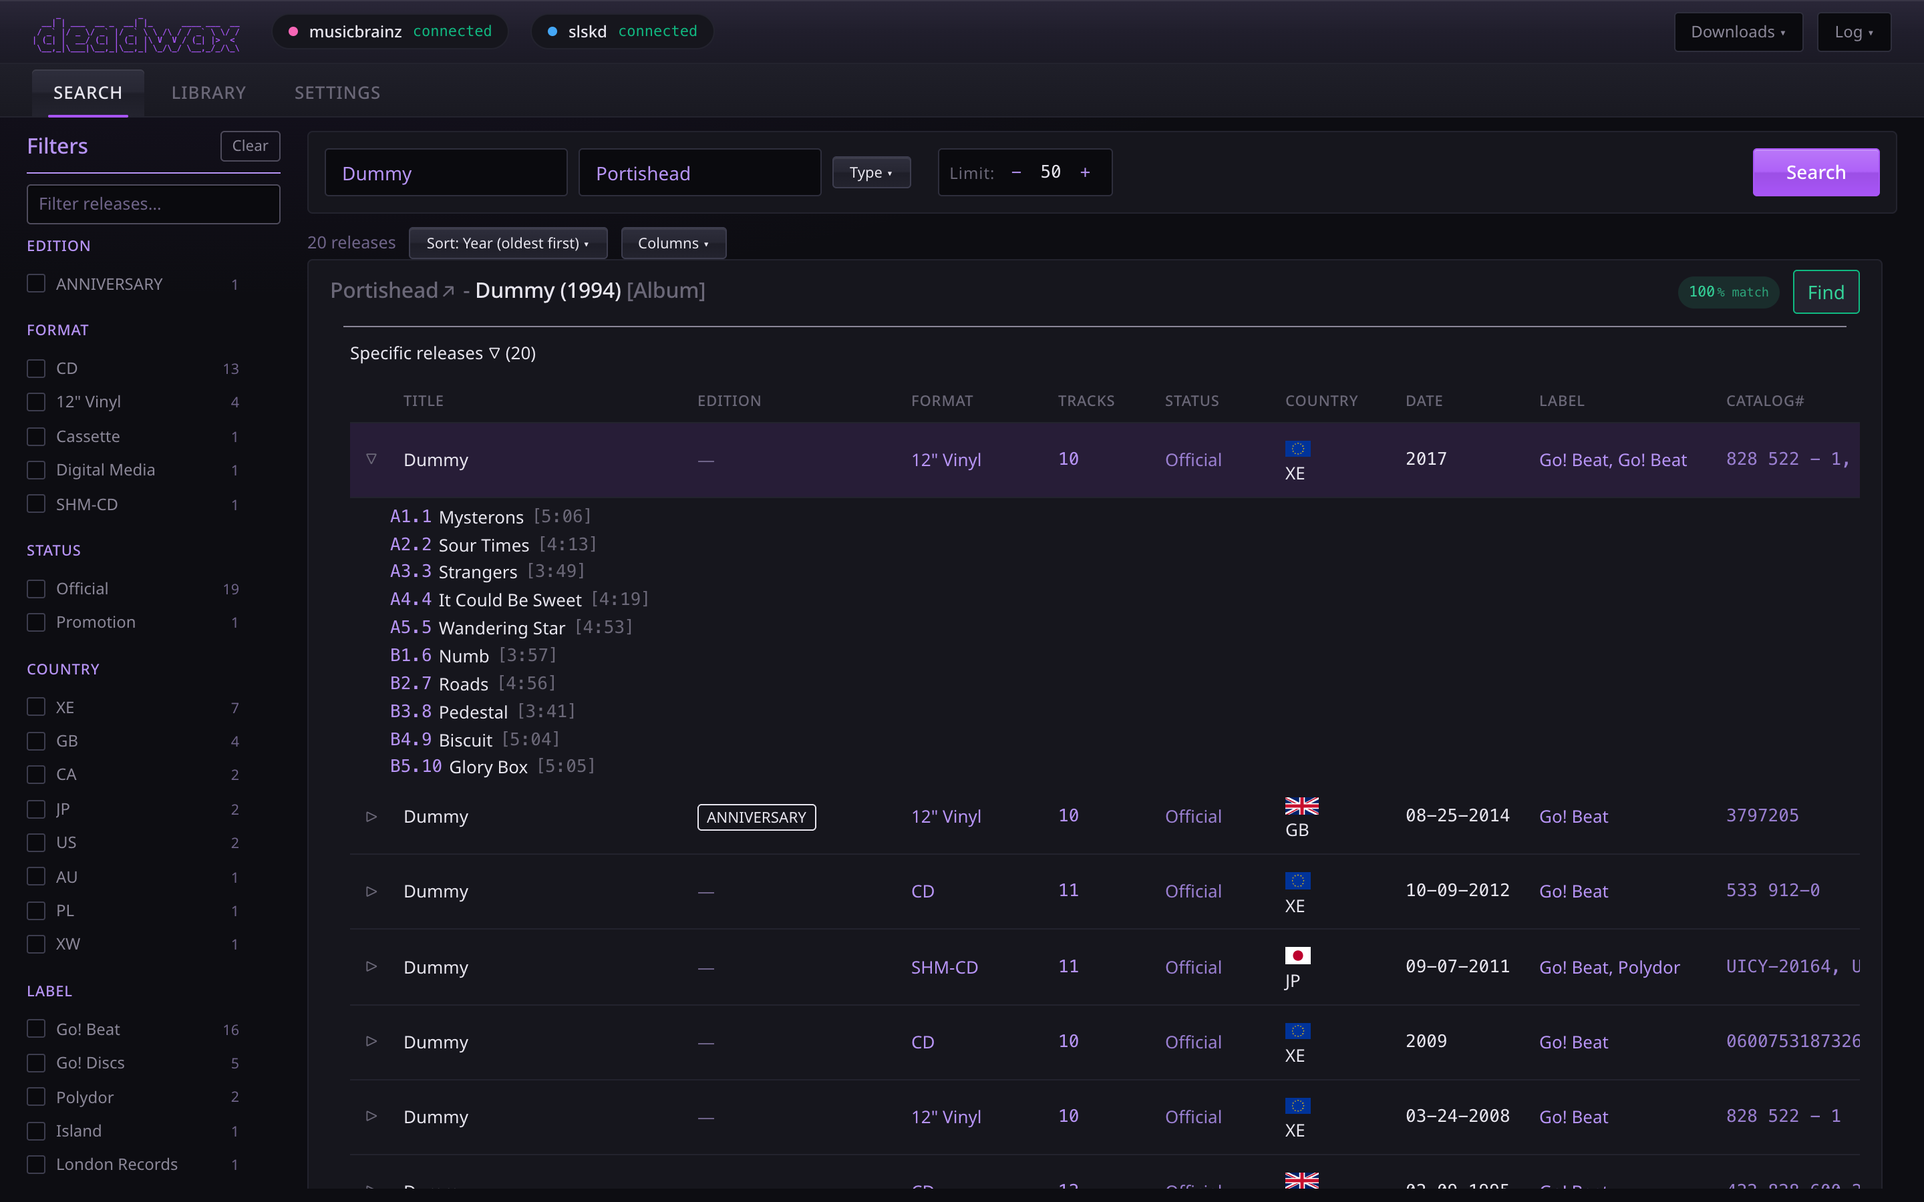
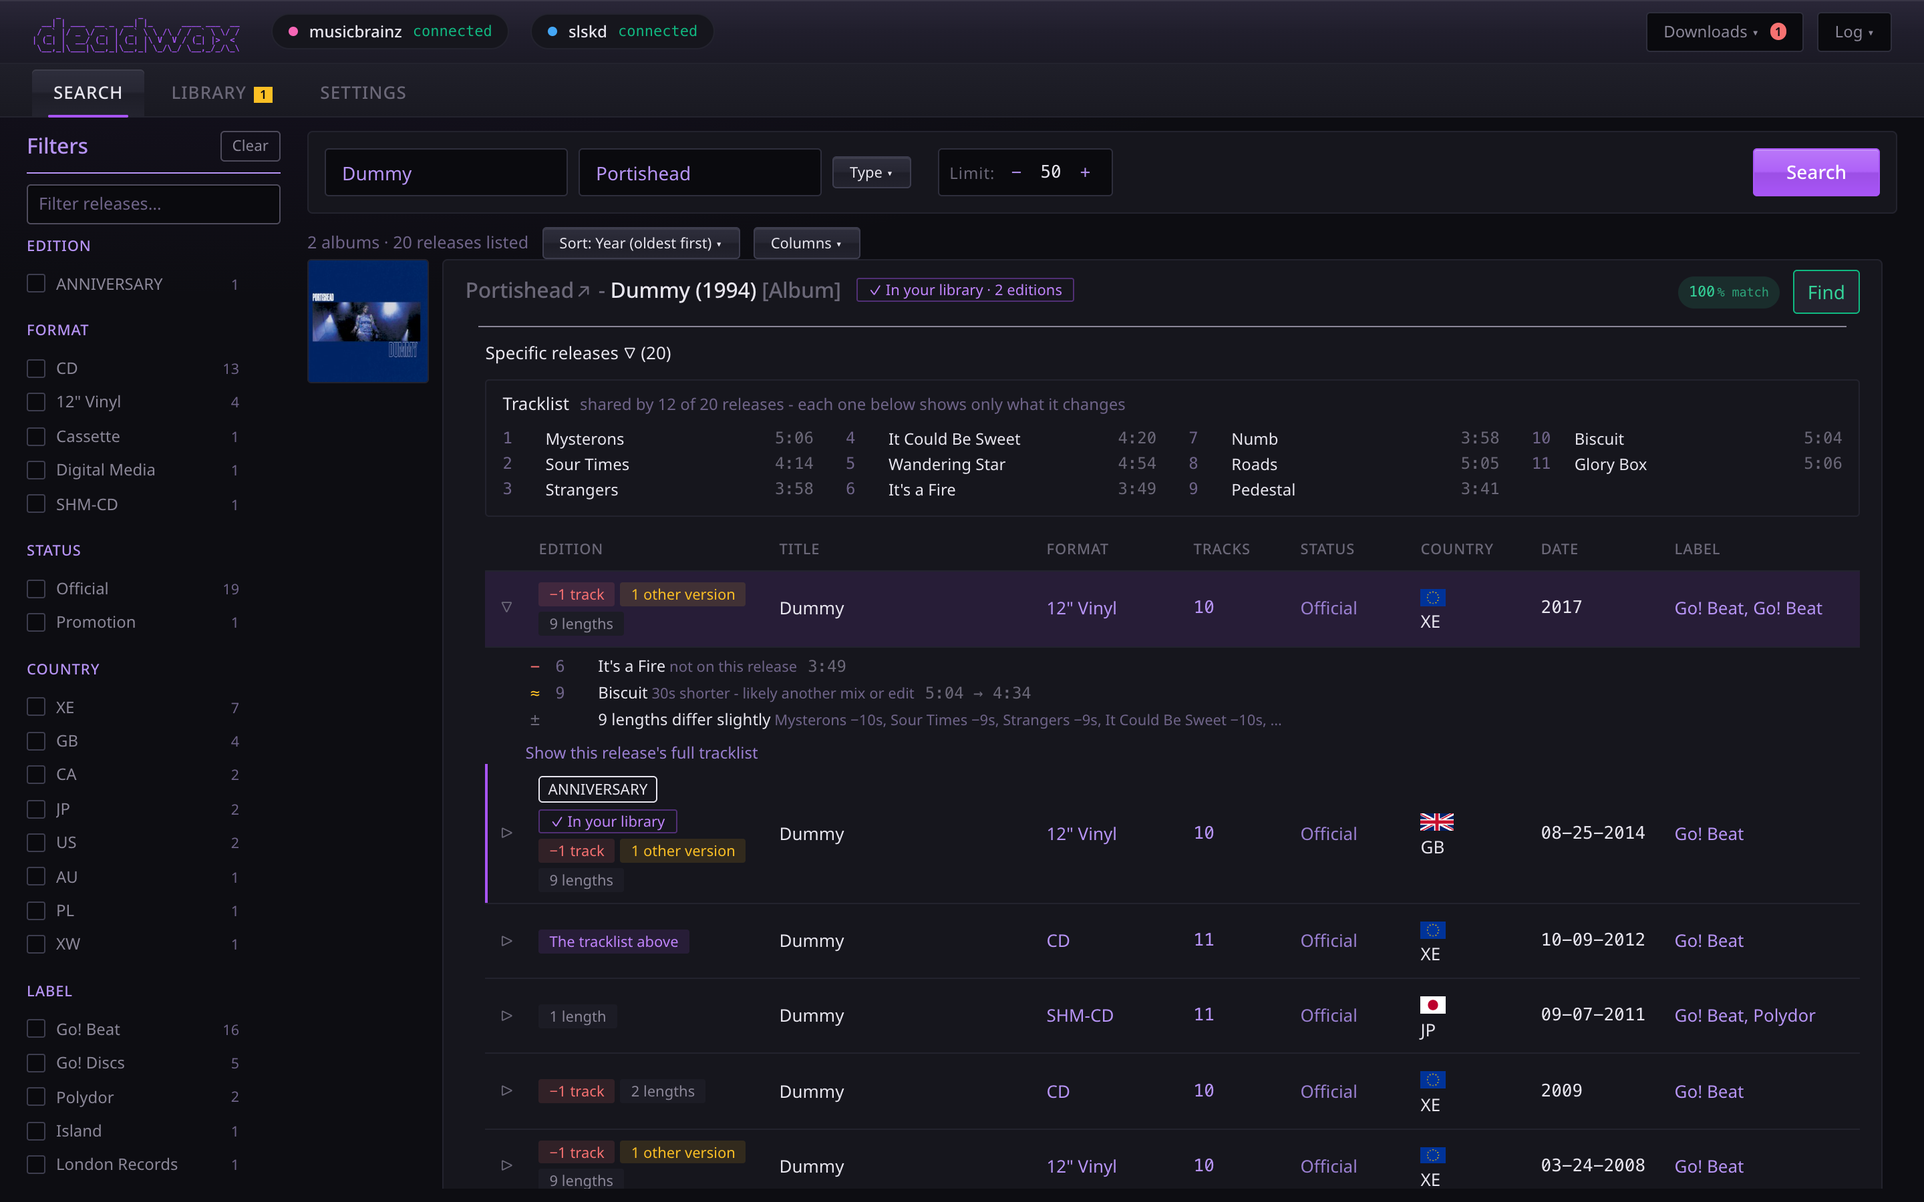
Recapture the screenshots, and add six (0.9.33)
Asked for: "recapture the screenshots" and "add any screenshots you think are
needed". The six README images were from v0.6.21 - the old release table, a
settings tab without its pages, the phone layout before 0.9.31.

Recaptured: search (the shared tracklist and what one pressing changes),
discography, library, lyrics, settings (the Connections page), and the phone
search. New: the candidates panel, the downloads panel, the metadata editor,
the artist page, the Artist images dialog, and the phone track list. The
README shows ten of them and docs/ embeds each beside the section it
illustrates; the two phone shots sit side by side.

Captured as in v0.6.21: headless Brave through Playwright at 2x, against the
running app, live MusicBrainz, the generated library of real FLACs. New for
this run, and none of it committed:
- a fake slskd answering every search with six realistically named Dummy
  folders, sized from the real track lengths, so the scores and signal chips
  are the matcher's own; a real Download click whose transfers it reports as
  moving;
- a seeded database: organized, failed (with runners-up) and queued jobs, one
  new import, one measured peer speed;
- for the editor, a copy of Third staged at the library root as a stranger's
  rip with its MusicBrainz tags and cover stripped, then put back.
CLAUDE.md records how.

Two small interface fixes the pictures showed:
- the Artist images dialog's search box had no class and drew as the
[…]

diff --git a/interface/styles/main.css b/interface/styles/main.css
@@ -6076,7 +6076,13 @@ input[type="checkbox"]:focus-visible { outline: 1px dotted var(--white-secondary
 }
 
 .artist-images-footer > .win-button:last-of-type { margin-left: 0; }
-.artist-images-footer > .settings-check { margin-right: auto; }
+/* a LABEL here, holding the box - in the settings tab .settings-check is the box itself */
+.artist-images-footer > .settings-check {
+    display: inline-flex;
+    align-items: center;
+    gap: var(--space-2);
+    margin-right: auto;
+}
 
 /*
  * What the library already holds, on a search card and on each pressing (v0.9.1).

diff --git a/ui/src/components/ArtistDetails.tsx b/ui/src/components/ArtistDetails.tsx
@@ -395,6 +395,7 @@ function ArtistImagePicker(
         <div class="artist-images-search">
           <input
             type="search"
+            class="releases-filter-input"
             value={query}
             placeholder="Search MusicBrainz for an artist"
             aria-label="Search MusicBrainz for an artist"

diff --git a/src/__init__.py b/src/__init__.py
@@ -14,4 +14,4 @@ value here is a wrong answer to "what version are you running", which is the fir
 asked about any bug report.
 """
 
-__version__ = "0.9.32"
+__version__ = "0.9.33"

diff --git a/README.md b/README.md
@@ -15,9 +15,9 @@ A one-page interface for finding music on MusicBrainz, pulling it down through s
 
 Pick the release you actually want, and deadwax searches Soulseek, ranks what comes back against that release's real tracklist, and shows you why each candidate scored what it did. One click queues it; when it finishes it gets tagged from the MusicBrainz data and filed into your library. Then the **library tab** shows you what you've actually got — including when you're holding three different pressings of the same record — and lets you correct anything that landed wrong.
 
-![deadwax — twenty pressings of one album, with the tracklist of the one you picked](assets/images/search.png)
+![deadwax — twenty pressings of one album, with the tracklist most of them share and what each one changes about it](assets/images/search.png)
 
-<sub>Twenty pressings of *Dummy* — vinyl, CD, cassette, SHM-CD, across seven countries — with the tracklist of the one you picked. The filter column builds itself from whatever is on screen.</sub>
+<sub>Twenty pressings of *Dummy* — vinyl, CD, cassette, SHM-CD, across seven countries — under the tracklist twelve of them share, each saying only what it changes: the 2017 vinyl drops "It's a Fire" and carries a shorter "Biscuit". The card knows two pressings of it are already in the library, and each one's row is marked. The filter column builds itself from whatever is on screen.</sub>
 
 <!--
   These are captured from the running app against the live MusicBrainz API, at 2x. The one
@@ -125,6 +125,10 @@ The speed on a candidate reads <code>peer avg</code> because that is what Soulse
 It searches under every name the artist has put records out under, because Soulseek needs every word of a search somewhere in a share's path — so a search for "Ye BULLY" can never find a share filed under <code>Kanye West/</code>. It tries the name on the release, the name the artist goes by now, and any name MusicBrainz marks as one they've stopped using, all at once rather than one after another. For an artist who never renamed, which is nearly everyone, that's one search as before, and it never waits on MusicBrainz to start. The query box shows the first name; hover it to see the others, and editing it (then Re-search, or Enter) searches exactly what you typed.
 <br><br>
 Once you've actually downloaded from someone, the row leads with <code>you got 780 KB/s</code> instead — what deadwax measured itself while bytes were moving, with queue time excluded. Nothing in the Soulseek protocol will tell you a transfer's speed before it starts, so this is the closest thing to an answer there is, and it's the one number on the row that was measured rather than claimed. It builds up as you use it: peers you've never downloaded from simply don't have it.
+<br><br>
+
+![Soulseek folders offering Dummy, each scored against the release's tracklist, with the six signals behind every score](assets/images/candidates.png)
+
 </details>
 
 ### An artist's discography, in order
@@ -173,6 +177,10 @@ The marks come from the saved scan, so they cost nothing and never hold a search
 deadwax keeps the link between a download and the MusicBrainz release that started it, in a small sqlite database. That's what makes tagging possible later, and it's why the downloads panel can tell you what an in-flight transfer actually is — with live progress, queue position, and a real transfer rate worked out from byte deltas rather than slskd's cumulative average, which only ever creeps upward.
 <br><br>
 Cancelling and clearing respond on the click rather than after the round-trip to slskd and back, so the buttons feel connected to something. The prediction is dropped the moment the server disagrees, and abandoned entirely if it never answers. A cancelled download also leaves slskd's own transfer list, once slskd has finished cancelling it, rather than sitting in its history for ever. A download that fails, or that you cancel, can move to the next peer from the list you picked it from — the list as you had it filtered and sorted — with one click on <em>↻ next peer</em>, skipping any peer already tried; turn on <code>AUTO_RETRY_PEER</code> in the settings tab and it happens by itself. A new download is in the panel the moment you press Download, reading <em>asking slskd…</em> while slskd connects to the peer (which can take a few seconds), and if slskd can't queue it, the row says why — usually that the peer is offline.
+<br><br>
+
+![The downloads panel: one album coming in, one waiting in a peer's queue, one refused with the next peer a click away, and one filed](assets/images/downloads.png)
+
 </details>
 
 ### Tagging and filing, with editions kept apart
@@ -236,6 +244,8 @@ A picker shows every candidate each source offered — TheAudioDB usually has fo
 
 Without a key you still get a photo where Commons has one, and the rest of the page is unaffected.
 
+![Portishead's artist page: the photograph from Wikimedia Commons, what MusicBrainz knows about them, the line-up and their albums in the library](assets/images/artist.png)
+
 ### CD art, and the pictures inside your files
 <details>
 <summary style="font-style:italic">Why a song can show a different picture from its album, and what to do about it</summary>
@@ -282,6 +292,10 @@ Multi-disc releases are tagged per disc, the way MusicBrainz and every player nu
 Covers are saved at 500 × 500 unless you choose otherwise: <strong>Cover art</strong> in the settings tab offers 250, 500, 1200 or <em>full size</em>, which is the original upload — often thousands of pixels and several megabytes. It applies to "Get cover", the bulk fetch and the editor alike, and the editor says which size it will save.
 <br><br>
 An album kept one folder per disc — <code>Album (Disc 1)</code>, <code>Album (Disc 2)</code> — shows as one album in two <em>disc folders</em> rather than as two editions, and the metadata queue flags it. Applying the release to each folder puts the discs back together in one: the second joins the first, but only once it's certain they're the same release and different discs, and nothing already there is ever overwritten.
+<br><br>
+
+![The metadata editor on a stranger's rip of Portishead's Third: no release id, the wrong folder, no original year. Picking the pressing previews every tag it writes, the cover it fetches, and the folder it moves to](assets/images/editor.png)
+
 </details>
 
 Tags now record **who** as well as what: `musicbrainz_albumartistid` and `musicbrainz_artistid` go in alongside the release ids, so a library deadwax filed says which artist it means rather than leaving the name to be matched later. A track credited to somebody else — a split, a compilation, a guest spot — keeps its own artist instead of being given the album's, and credits read the way MusicBrainz writes them: "A / B", "A & B", "A feat. B", rather than everything flattened to a comma.
@@ -318,7 +332,7 @@ It still reports, which is half the point. For every setting: the value this con
 It resolves the paths rather than trusting them, which is the point. <code>SLSKD_DOWNLOAD_PATH</code> pointing at a path that exists on the <em>host</em> but not inside the container is the most common first-run failure by a wide margin, and it is invisible from the value — the string looks perfectly correct. It also answers "why did nothing get filed" once, in a sentence, with every reason listed, rather than leaving you to infer it from four separate rows. The API key is never sent to the browser at all.
 <br><br>
 
-![The settings tab, reporting where each setting came from](assets/images/settings.png)
+![The settings tab's Connections page, saying where each setting came from and never showing a key](assets/images/settings.png)
 
 </details>
 
@@ -349,7 +363,11 @@ Then every view was gone through again at phone sizes (320, 375 and 390px wide, 
 - **No accidental zooming**: text fields are 16px, below which an iPhone zooms the whole page when you tap one. Every button, checkbox and menu item is big enough to hit with a thumb.
 <br><br>
 
-![deadwax on a phone](assets/images/mobile.png)
+<p>
+<img src="assets/images/mobile.png" width="300" alt="Searching on a phone: the album card, the shared tracklist, and a pressing laid out as a block">
+&nbsp;&nbsp;
+<img src="assets/images/mobile-library.png" width="300" alt="An album's tracks on a phone: number, title, length">
+</p>
 
 </details>
 

diff --git a/CLAUDE.md b/CLAUDE.md
@@ -2387,6 +2387,31 @@ suffix (`[GB]`, `[AU]`) - that WAS what deadwax named them until v0.8.3 made the
 (`COUNTRY_IN_FOLDER`), and the capture renamed them by hand for tidier pictures; and a wait on
 `.track-table-row` is what says the library pane has drawn.
 
+**v0.9.33 recaptured all six and added six (twelve in `assets/images/`, also embedded in `docs/`),
+the same way, on the same generated library.** What it took beyond the above:
+
+- **The candidates and downloads shots need a fuller fake slskd** than the one-endpoint stub: one
+  that answers EVERY search with the same handful of realistically named Dummy folders (exact
+  rips, a 24/96 remaster, a 320, one missing a track, one of bare `Track NN` names), sized from the
+  real track lengths so the scores and chips are the matcher's own; and that reports an enqueued
+  download's transfers as moving, with a head start so the bar is part-way.
+- **The panel's other rows are SEEDED**: a fresh database with an organized, a failed (with
+  runners-up, so "next peer" shows) and a queued job inserted straight into `jobs`, the queued
+  one's transfers handed to the fake as waiting at queue #4; plus one `import` review row (the
+  NEW chip and the tab badge) and one `peer_speed` row (the green "you got"). The live one is a
+  real Download click. Reseed before the final run - a second run adds a second Dummy job.
+- **The editor shot is STAGED and undone**: a copy of an album moved to the library root as a
+  stranger's rip, its MusicBrainz tags, original date and cover stripped, then the real folder
+  put back. Opened on an album deadwax filed itself, the editor has nothing honest to show - and
+  on a vinyl pressing it proposes a `[12_ Vinyl]` folder, which is real behaviour and reads as
+  a bug in a picture. Pick the release whose preview renames to the plain folder.
+- **The artist page's picture is a saved `artist.jpg`**, so the capture saves the Commons photo
+  through Artist images first; the page shows a placeholder until something has.
+- Driving it: a tab button's text includes its badge, so match it with `has_text`, not an exact
+  text; on a phone, tapping an album of several editions opens the sheet over the tree, so the
+  phone library shot opens a single-edition album; and `glob` reads `[FLAC]` in a folder name as
+  a character class (`glob.escape`).
+
 - **`--screenshot` and `--virtual-time-budget` cannot do this, and two attempts hung proving
   it.** The flag fires once load settles, which is before any driving has happened. Virtual
   time is the usual answer and it does not work here either: deadwax polls continuously, so
@@ -2969,7 +2994,7 @@ A green suite here means the logic is sound, not that it works against real infr
    re-search behave against a live search. **Stubbing the fetch is a cheap way to look at
    this panel again** — it needs no slskd and takes one `window.fetch` override.
 8. ~~Recapture `assets/images/library.png`~~ **Done in v0.6.21**, with the other four, for the
-   rename. See "Capturing screenshots" for how the library was built.
+   rename, and **all of them again in v0.9.33**, with six new ones. See "Capturing screenshots".
 9. ~~An album stored one folder per disc shows as "editions"~~ **Done in v0.9.13** - see
    "Albums stored one folder per disc".
 10. **Upgrade the local Node to 22** so `npm run build` works again without the rolldown

diff --git a/docs/library.md b/docs/library.md
@@ -34,6 +34,8 @@ opens to one row per edition first.
 
 It stays quick on a big library: only the rows in view are ever drawn.
 
+![The library tab: Pink Floyd open, Wish You Were Here's two editions under it, and the two-disc Experience edition in the details pane](../assets/images/library.png)
+
 ### Arranging
 
 **Arrange by**: **Artist** (the tree above), **Album**, **Release date** or **Date added**.
@@ -125,6 +127,8 @@ and album tags. You:
 5. **Apply** writes the tags, fetches the cover and moves the folder. There's no undo, which is
    why the preview shows everything first.
 
+![The metadata editor on an untagged rip of Third: its issues listed, the release picked, and the preview of the tags, the cover and the folder move](../assets/images/editor.png)
+
 ## Editing tags by hand
 
 Tick tracks in the track table (Shift-click for a range, Ctrl/Cmd-click for one at a time), then
@@ -156,6 +160,8 @@ album artist, track, disc, date, original date, genre and composer:
   the details in its tooltip). **Get lyrics · N** does every album in view that has no lyrics at
   all.
 
+![A track's synced lyrics, with the time beside each line](../assets/images/lyrics.png)
+
 **Why a song can show a different picture from its album:** some players (Navidrome, and so
 apps like Amperfy) show a picture *embedded in the file* over the album's cover, and a disc scan
 (`cd.jpg`) for songs with a disc number. An album's **Properties** and a track's view list the
@@ -176,6 +182,8 @@ Which artist this is comes from the files' MusicBrainz artist ids. When the file
 name search is used, but only when exactly one artist has that name. For a name several artists
 share (there are eight called Nirvana), the page asks you to choose.
 
+![Portishead's artist page](../assets/images/artist.png)
+
 **Artist images…** shows every picture found, from Wikimedia Commons, TheAudioDB (with a key)
 and fanart.tv (with a key), and saves your choices into the artist's folder:
 
@@ -186,6 +194,8 @@ and fanart.tv (with a key), and saves your choices into the artist's folder:
 
 The extension is the picture's own (`.jpg`, `.png`…). Any picture can go in any slot, and a
 folder that holds tracks is refused, since an `artist.jpg` there would mean something else.
+
+![The Artist images dialog: the pictures found for each slot, and the square image already on disk](../assets/images/artist-images.png)
 
 **An artist who has renamed.** When MusicBrainz knows the artist by another name now, the page
 says **Now: …**. If their albums are filed under two folder names, **Move albums to …** moves

diff --git a/docs/downloading.md b/docs/downloading.md
@@ -40,6 +40,8 @@ Each row is one folder on one user's share:
 - **Edition words** found in the folder's name (REMASTER, DELUXE, …).
 - **Signal chips**, the score broken down: titles, count, lengths, edition, format, peer.
 
+![The candidates panel for Dummy: each folder's score, its user, format and size, the peer's speed and slot, and the six signal chips](../assets/images/candidates.png)
+
 ## Narrowing the list
 
 - **Free slot only** and **Complete albums only** hide busy peers and folders missing tracks.
@@ -87,6 +89,8 @@ files wanted, **queue #N** while waiting in the user's queue, and the live downl
 | cancelled | you cancelled it |
 
 When a download is filed, the library tab picks the new album up by itself.
+
+![The downloads panel: downloading, queued at #4, failed with the next peer offered, and organized](../assets/images/downloads.png)
 
 ### When a download fails
 

diff --git a/docs/finding-music.md b/docs/finding-music.md
@@ -49,6 +49,8 @@ only** on to start with. **Back** returns to your search.
 A browse stops at 500 albums, and says so if it did, so an enormous catalogue ("Various
 Artists") isn't presented as complete.
 
+![Dance Gavin Dance's eleven studio albums, oldest first](../assets/images/discography.png)
+
 ## Every pressing of an album
 
 Under each card is a list of its **releases**: every pressing MusicBrainz knows of. The best
@@ -76,6 +78,8 @@ only what *it* changes:
 
 Click (or tap) a pressing to see its changes in full, and click **Show this release's full
 tracklist** for the whole thing, sides and discs included.
+
+![Dummy's twenty pressings under the tracklist twelve of them share, the 2017 vinyl opened to show what it changes](../assets/images/search.png)
 
 ### Pressings you already have
 

diff --git a/docs/configuration.md b/docs/configuration.md
@@ -5,6 +5,8 @@ where your library is, how albums are filed. **Preferences** belong to your brow
 search results to ask for, which candidate filters start switched on. Both are edited in the
 **Settings** tab, which has five pages: Search, Downloads, Library, Connections and Interface.
 
+![The Connections page of the settings tab, saying where each setting came from](../assets/images/settings.png)
+
 ## Where a server setting comes from
 
 A server setting can be given in three places. The first one found wins:

diff --git a/docs/README.md b/docs/README.md
@@ -63,6 +63,12 @@ as a sheet over the tree. A few gestures are phone-specific:
 - The filter lists on the search and library views are collapsed behind a **Show** button to
   keep them out of the way.
 
+<p>
+<img src="../assets/images/mobile.png" width="280" alt="Searching on a phone">
+&nbsp;&nbsp;
+<img src="../assets/images/mobile-library.png" width="280" alt="An album's tracks on a phone">
+</p>
+
 ## For developers
 
 [CLAUDE.md](../CLAUDE.md) is the working notes: every design decision, and why. The
